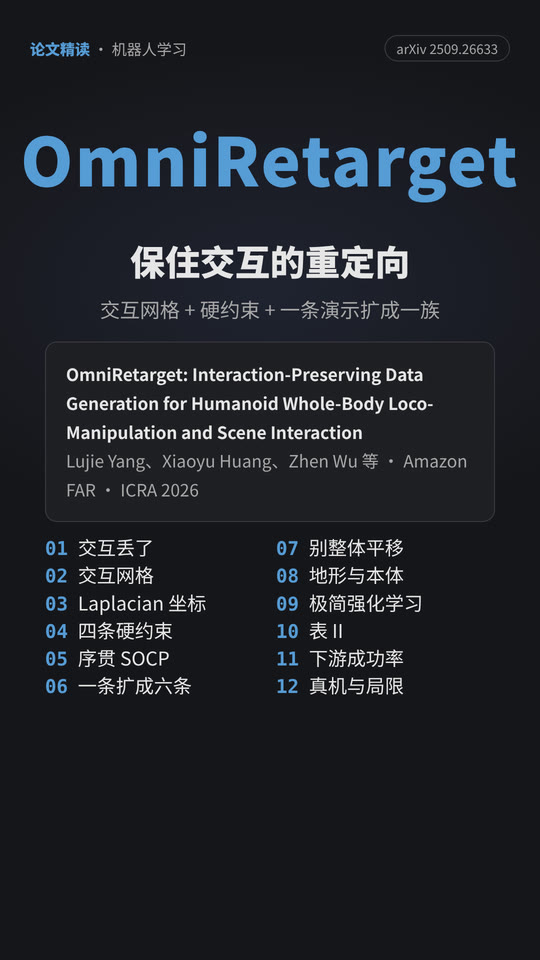
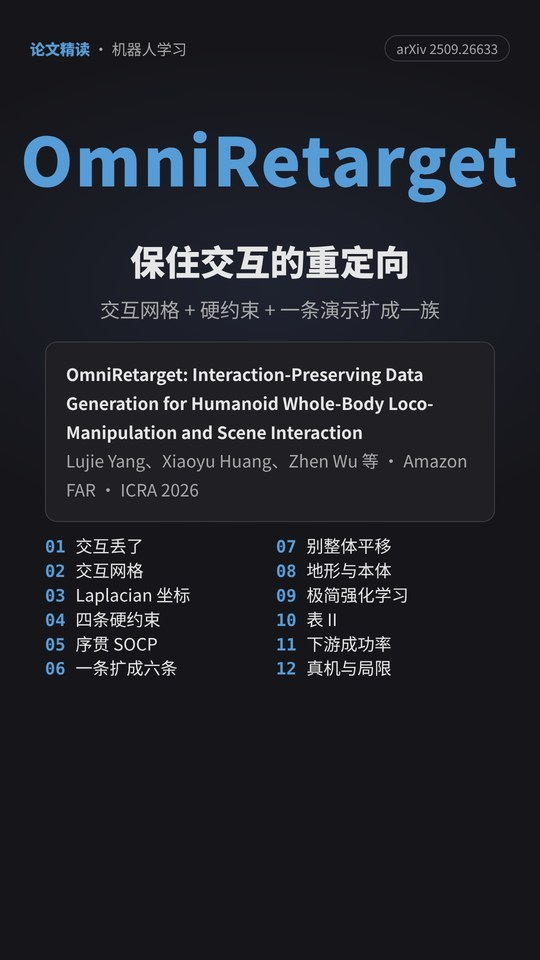
fix(OmniRetarget): 封面按 80px 余量重出，海报同步替换
旧海报目录最低一行字底在 y 1388，越过了现行的 1360（离 3:4 裁剪线 1440 留 80px）；
用当前的 classicCover() 重出后是 1351，check_layout cover 为 no overlap。内容不变。

Claude-Session: https://claude.ai/code/session_011Z1kwS3i78G3dKSyLdcSVm

Changed region(s): [[0.0593, 0.5625, 0.3852, 0.7188], [0.5037, 0.5625, 0.7704, 0.7188], [0.1185, 0.0312, 0.1481, 0.0625]]

diff --git a/scripts/paper_video/RELEASE_PLAN.md b/scripts/paper_video/RELEASE_PLAN.md
@@ -46,7 +46,7 @@
 - [x] 021 [ToddlerBot](../../papers/12_Hardware_Design/ToddlerBot_Open-Source_ML-Compatible_Humanoid_Platform_for_Loco-Manipulation/ToddlerBot_Open-Source_ML-Compatible_Humanoid_Platform_for_Loco-Manipulation.md)（2025）🎬 `toddlerbot` — day6「仿真与硬件」：把校准、数字孪生、遥操作采集与部署工具连成完整平台。〔取舍〕与 Berkeley Humanoid 连着讲，由硬件与仿真对齐走向整套工具链；片尾从遥操作采集引出 022 HumanML3D / 023 GMR 的动作数据与重定向。2026-10-09 新建笔记：以 arXiv v4（CoRL 2025 版）为准，对照 v1（执行器模型从 6 参数改成 9 参数、表 3 全部重测）与官方代码 2.0（50 → 200 Hz、膝去掉平行连杆、`rsl_rl`）；新做十二幕动画、三个交互演示（一台 Dynamixel 在仿真里长什么样、拿掉一个参数 chirp 跟踪差多少、功率因子按身高体重选电机）与配音视频，片头接 020 的片尾预告，片尾只预告 022 HumanML3D「人类动作数据从哪里来」；2026-10-10 按看片反馈把片头的 CoRL 改成一个词写、一个词念（原来逐字母念），整片重渲后换进笔记；同日又按「格式错位」与「多用图少用文字、动效符合物理」两轮反馈逐幕修改，已出 12 幕改动片段，整片待确认后重渲；2026-10-11 已发布（用户确认）
 - [x] 022 [AMASS / HumanML3D](../../papers/14_Human_Motion/HumanML3D/HumanML3D.md)（2019 / 2022）🎬 `humanml3d` — AMASS / HumanML3D→GMR；视频讲的是 HumanML3D。2026-10-11 按 ToddlerBot 之后的排期重做：笔记对照 CVPR 正文、补充材料与两个官方仓库逐条核查，改正十余处（片段 012314 的根转角是半角、实际约 −45.6°；根高度存绝对值不是速度；这段是 Eyes_Japan 的一段网球一发、先侧向冲出 2.3 m 再退回；feat_bias 在官方脚本里被除两次、实际放大 25 倍；早停是连续第 4 次不创新低；长度标签实际 9–49；局限分罕见 / 复杂 / 细粒度三类；消融「超过 6%」按相对掉幅读等）；讲解动画按「多用图少用文字」从九幕拆成十二幕，骨架换成片段 012314 的真实 22 关节数据，用上正文图 1、4、6 与补充材料图 3、6、8（图 6 的八条长度分布按像素量成读图近似值），每幕最多一条公式；新增三个交互演示（片段 012314 的 263 维、Text2Length 采样、R-Precision 玩具）；配音重写为 10 分 59 秒，片头接 021 的片尾预告（人类的动作数据从哪里来、怎样配上文字），片尾只预告 023 GMR（人和机器人骨架不同，怎样把人的动作搬到机器人身上），主动画各幕不预告下一篇；读音用同句合成比 log-mel DTW 核过「量出 / 还剩 / 长短 / 重建」，「L 1 重建误差」「倒计时」两处测不准，换了说法；第 4 幕结尾改稿（#617）后整片 16 段并行重渲 19,779 帧（1080×1920、30 fps、CRF 19，逐段帧数与全片解码已核），网页版 `-preset slow -crf 37 -tune stillimage` 加 48k 单声道音频压到 11.8 MB 换进笔记，海报由封面缩成 540×960；完整原片（35.1 MiB）和封面已上传百度网盘 `/学习/RLPN/HumanML3D/`，大小与本地一致；2026-10-11 已发布（用户确认）
 - [ ] 023 [GMR](../../papers/02_Motion_Retargeting/Retargeting_Matters__General_Motion_Retargeting_for_Humanoid_Motion_Tracking/Retargeting_Matters__General_Motion_Retargeting_for_Humanoid_Motion_Tracking.md)（2025）🎬 `gmr` — GMR 论文用 BeyondMimic 作中性训练框架做对比，所以排在它后面；2026-10-11 按 HumanML3D 之后的排期重做：笔记对照 arXiv v1 的 LaTeX 源码与官方仓库逐条核查，改正十余处（第 5 步是换权重、加入所有位置，不是加接触 / 自碰撞约束；两阶段是「全部朝向 + 末端位置」→「全部位置」；速度限位默认关闭、`--rate_limit` 只管播放；表 I 的读法；`TEST_MOTIONS.md` 把已成功的动作当成了失败；会议名 README 里没有等）；讲解动画从七幕改成十三幕，人和 G1 用 LAFAN1 `walk1_subject1` 第 920–1003 帧与我们用 mink + MuJoCo 照官方代码跑出的结果（四种设定），第 10、11 幕用论文图 1、图 3；新增三个交互演示（缩放比例滑块、两阶段 IK 玩具、表 I / 表 III 浏览）；配音重写为 12 分 5 秒，片头接 022 的片尾预告（人和机器人的骨架不一样，怎样把人的动作搬到机器人身上），片尾只预告 024 OmniRetarget（有接触时怎样把交互也保住），主动画各幕不预告下一篇；整片四段并行渲染。同日按用户建议改用 Robot_Retarget_Online 的模型加载代码把第 3–8、12 幕的 G1 换成 3D 渲染（同一批 qpos 逐帧离线渲染成贴图表），第 12 幕默认姿态改取 BeyondMimic `robots/g1.py` 的 init_state，旁白只改第 3 幕三处「一行」的读音（按看片反馈念 háng，旁白写「航」、字幕换回），整片重渲；2026-10-12 按看片反馈把第 1 幕「调参」、第 10、13 幕「单独调」改念 tiáo（旁白写「条餐」「单独条」、字幕换回），先出三段确认后再整片重渲；同日 sim2sim 改念 sim to sim、分镜去掉六处压字与越框、第 10 幕图 3(c) 的圈改到腰横滚真正跳变的位置，旧合成地址 403 后按 rany2/edge-tts PR #491 改走 api.msedgeservices.com，整篇重合成为 12 分 2 秒后整片重渲
-- [ ] 024 [OmniRetarget](../../papers/02_Motion_Retargeting/OmniRetarget__Interaction-Preserving_Data_Generation_for_Humanoid_Whole-Body_Loc/OmniRetarget__Interaction-Preserving_Data_Generation_for_Humanoid_Whole-Body_Loc.md)（2025）🎬 `omniretarget` — GMR→OmniRetarget，从「只盯关键点」到「保住交互」；2026-10-12 按 GMR 之后的排期重做：笔记对照 arXiv v3 的 LaTeX 源码、项目页与官方 holosoma 代码逐条核查，改正八处（扩增的 79.1% 是在全部扩增数据上训练并评测，82.2% 只评名义动作；interaction mesh 出自 Ho、Komura、Tai 2010；BeyondMimic 作者是 Liao 等；LAFAN1 是 Ubisoft La Forge；IMMA 是给双足人形做的；观测没点名后空翻；8 小时以上 / 9 小时以上 / 8.38 h 三种说法的出处；sub3 身高 1.941 m），并记下代码与论文的差别（速度限位没实现、`activate_obj_non_penetration` 没被读到、人-物任务只做位姿扩增、只有下身锚定没有钉住初始双脚）；讲解动画从七幕改成十二幕，G1 用我们照官方代码在 OMOMO `sub3_largebox_003` 与 `mocap_climb_seq_0` 上跑的复现实验（官方 / 关掉不穿透 / 关掉脚粘地、五种扩增、锚定三种设定、平台三档），按 Robot_Retarget_Online 的材质离线渲染成 3D 贴图表；第 1、8、12 幕用论文图 6、图 3、图 1 与图 5；新增三个交互演示（硬约束开关、扩增浏览、表 II 与图 7）；配音重写为 12 分 12 秒，片头接 023 的片尾预告（有接触时怎样把交互也保住），片尾只预告 025 的主题（一边稳稳地走、一边用上半身跟着人做动作），主动画各幕不预告下一篇；整片四段并行渲染；2026-10-13 按看片反馈：第 1 幕结尾加一句话解释 SOCP（二阶锥规划：一种凸优化，约束里可以有「向量长度不超过某个值」），表 I 下加一张二阶锥小卡片；第 2 幕在 Delaunay 之后加一句它的规则（外接球里不能再有别的点，所以只连彼此相邻的点），配平面上的外接圆示意；第 3 幕两张点图旁补上人的骨架、箱子和同一帧 G1 的 3D 渲染，用放大镜看手腕；build.py 的字幕切行不再在英文词中间断开（成片里出过「De / launay」「Laplac / ian」）；第 8 幕爬平台的 G1 补上手和脚（球形手版 G1 的脚、踝和手只有碰撞网格，导出时被当成不可见跳过，改成没有可视网格的部位用碰撞网格画，三档重渲）；第 10 幕表 II 柱子上的数字挪到柱顶上方；第 6 幕俯视图重画成「人朝上」（灰色虚线框是原来的箱子，五种扩增的起点在旁白念到时一个个出现，再画轨迹并回原路线），旁白补一句怎么看这张图；第 10 幕写明打滑时长、接触保持是 0–1 的比例（论文按应有的时长归一化，表头没单位），旁白补一句；第 1、2 幕各延长 3 s、第 6 幕延长 3.6 s，只合成新加或改过的四句，其余旁白原样拼回，整片重渲为 12 分 45 秒；同日全局检查：第 4 幕关掉不穿透那台按帧套圈、写出哪里插进箱子 / 陷进地面，第 5 幕的等高线、红色半平面、信赖域、这一步各配一句标注，迭代条加图例，第 7 幕改成第 0 帧定格（淡影是原始解，箭头标出骨盆和双脚挪了多少），第 8 幕讲换机器人时放大论文图 3，第 9 幕画出策略的输出（关节目标角交给 PD）；旁白里有向距离、正运动学、信赖域、雅可比、浮动基第一次出现时用白话交代，改过的 6 句重合成，整片重渲为 12 分 56 秒
+- [ ] 024 [OmniRetarget](../../papers/02_Motion_Retargeting/OmniRetarget__Interaction-Preserving_Data_Generation_for_Humanoid_Whole-Body_Loc/OmniRetarget__Interaction-Preserving_Data_Generation_for_Humanoid_Whole-Body_Loc.md)（2025）🎬 `omniretarget` — GMR→OmniRetarget，从「只盯关键点」到「保住交互」；2026-10-12 按 GMR 之后的排期重做：笔记对照 arXiv v3 的 LaTeX 源码、项目页与官方 holosoma 代码逐条核查，改正八处（扩增的 79.1% 是在全部扩增数据上训练并评测，82.2% 只评名义动作；interaction mesh 出自 Ho、Komura、Tai 2010；BeyondMimic 作者是 Liao 等；LAFAN1 是 Ubisoft La Forge；IMMA 是给双足人形做的；观测没点名后空翻；8 小时以上 / 9 小时以上 / 8.38 h 三种说法的出处；sub3 身高 1.941 m），并记下代码与论文的差别（速度限位没实现、`activate_obj_non_penetration` 没被读到、人-物任务只做位姿扩增、只有下身锚定没有钉住初始双脚）；讲解动画从七幕改成十二幕，G1 用我们照官方代码在 OMOMO `sub3_largebox_003` 与 `mocap_climb_seq_0` 上跑的复现实验（官方 / 关掉不穿透 / 关掉脚粘地、五种扩增、锚定三种设定、平台三档），按 Robot_Retarget_Online 的材质离线渲染成 3D 贴图表；第 1、8、12 幕用论文图 6、图 3、图 1 与图 5；新增三个交互演示（硬约束开关、扩增浏览、表 II 与图 7）；配音重写为 12 分 12 秒，片头接 023 的片尾预告（有接触时怎样把交互也保住），片尾只预告 025 的主题（一边稳稳地走、一边用上半身跟着人做动作），主动画各幕不预告下一篇；整片四段并行渲染；2026-10-13 按看片反馈：第 1 幕结尾加一句话解释 SOCP（二阶锥规划：一种凸优化，约束里可以有「向量长度不超过某个值」），表 I 下加一张二阶锥小卡片；第 2 幕在 Delaunay 之后加一句它的规则（外接球里不能再有别的点，所以只连彼此相邻的点），配平面上的外接圆示意；第 3 幕两张点图旁补上人的骨架、箱子和同一帧 G1 的 3D 渲染，用放大镜看手腕；build.py 的字幕切行不再在英文词中间断开（成片里出过「De / launay」「Laplac / ian」）；第 8 幕爬平台的 G1 补上手和脚（球形手版 G1 的脚、踝和手只有碰撞网格，导出时被当成不可见跳过，改成没有可视网格的部位用碰撞网格画，三档重渲）；第 10 幕表 II 柱子上的数字挪到柱顶上方；第 6 幕俯视图重画成「人朝上」（灰色虚线框是原来的箱子，五种扩增的起点在旁白念到时一个个出现，再画轨迹并回原路线），旁白补一句怎么看这张图；第 10 幕写明打滑时长、接触保持是 0–1 的比例（论文按应有的时长归一化，表头没单位），旁白补一句；第 1、2 幕各延长 3 s、第 6 幕延长 3.6 s，只合成新加或改过的四句，其余旁白原样拼回，整片重渲为 12 分 45 秒；同日全局检查：第 4 幕关掉不穿透那台按帧套圈、写出哪里插进箱子 / 陷进地面，第 5 幕的等高线、红色半平面、信赖域、这一步各配一句标注，迭代条加图例，第 7 幕改成第 0 帧定格（淡影是原始解，箭头标出骨盆和双脚挪了多少），第 8 幕讲换机器人时放大论文图 3，第 9 幕画出策略的输出（关节目标角交给 PD）；旁白里有向距离、正运动学、信赖域、雅可比、浮动基第一次出现时用白话交代，改过的 6 句重合成，整片重渲为 12 分 56 秒；封面按现行规则重出（目录最低一行字底 ≤ 1360，旧海报是 1388），海报同步替换
 
 ### day6 补充集的制作与发布待办
 
